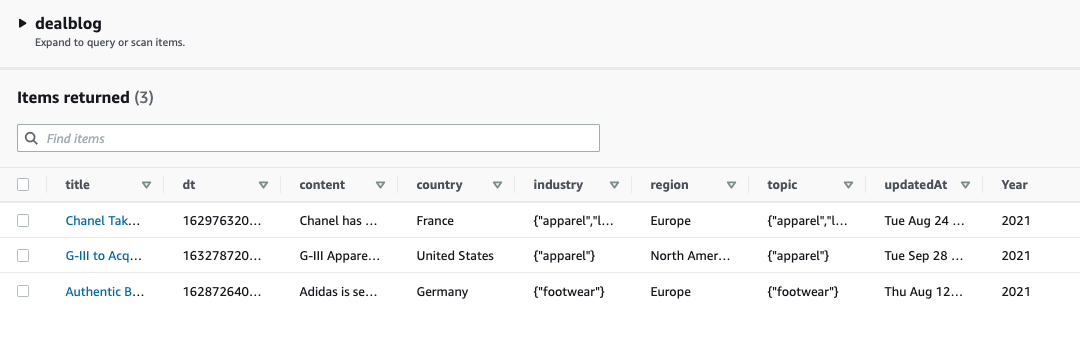
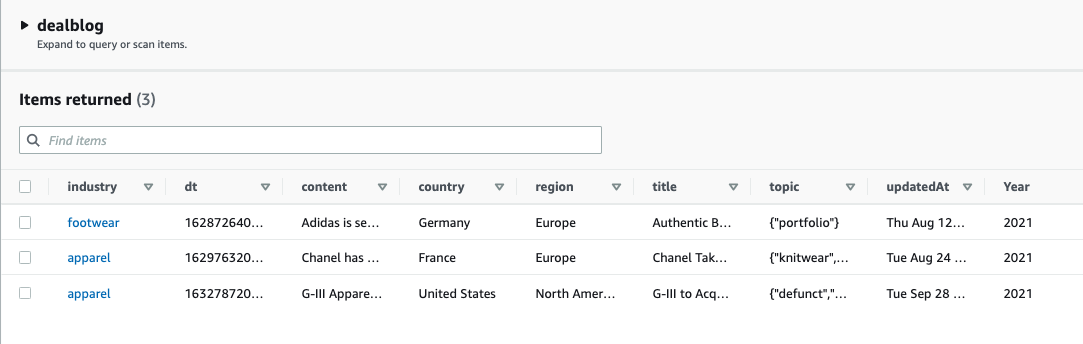
assignment 6

diff --git a/week05_02/week05.js b/week05_02/week05.js
@@ -15,9 +15,9 @@ class BlogEntry {
     this.region = {};
     this.region.S = region;
     this.industry = {};
-    this.industry.SS = industry; 
+    this.industry.S = industry; 
     this.topic = {};
-    this.topic.SS = industry; 
+    this.topic.SS = topic; 
     this.Year = {};
     this.Year.N = new Date(updatedAt).getFullYear().toString();
     this.content = {};
@@ -26,9 +26,9 @@ class BlogEntry {
   }
 }
 
-blogEntries.push(new BlogEntry('G-III to Acquire Sonia Rykiel','September 28 2021','United States', 'North America', ["apparel"],["defunct","portfolio"],'G-III Apparel Group revealed that it has entered into an agreement to purchase Sonia Rykiel, with plans to accelerate the relaunch of the French fashion brand primarily in Europe, for the fall of 2022, with collections across multiple categories. The transaction, which comes less than two years after brothers Eric and Michael Dayan successfully bid to acquire all of the bankrupt brand’s assets via a court-administered process. \(Those assets included the brand’s intellectual property rights \(namely, its various global trademark registrations, and decades of archives and product prototypes\); the commercial leases for its brick-and-mortar outposts in France – from its Saint Germain flagship to a glitzy boutique in Cannes, among others; and its remaining stock of garments and accessories.\)The deal is expected to close by the end of October 2021.'));
-blogEntries.push(new BlogEntry('Chanel Takes Majority Stake in Paima','Auguest 24, 2021', 'France', 'Europe', ["apparel","luxury"],["supply chain","knitwear"],'Chanel has taken a majority stake in Italian knitwear company Paima, a move that falls in line with a larger pattern of luxury giants looking gain greater control over their supply chains by bringing key third-party companies under their own roofs. “This decision has been motivated by converging interests,” Chanel asserted in a statement, noting that while Paima, which has been a supplier for the French fashion brand for 25 years, “has seen its development accelerate in recent years, it seemed appropriate to have a solid partner to help it grow \[further\] and invest.” More than that, Chanel revealed that the investment “provides a more sustainable collaboration framework by continuing an already established relationship.”'));
-blogEntries.push(new BlogEntry('Authentic Brands Group Buys Reebok','Auguest 12, 2021','Germany', 'Europe',["footwear"],["portfolio"],'Adidas is selling its Reebok brand to Authentic Brands Groups for up to 2.1 billion euros \($2.46 billion\), with the German sporting wear group looking to “focus on its core brand after the U.S. fitness label failed to live up to expectations,” per Reuters. Authentic Brand, which filed its preliminary IPO documentation in July, has been on a buying streak in the past few years, with the brand developer buying up an array of fashion and apparel companies, ranging from Juicy Couture and Judith Leiber to Jones New York, Volcom, and Aeropostale.'));
+blogEntries.push(new BlogEntry('G-III to Acquire Sonia Rykiel','September 28 2021','United States', 'North America', "apparel",["defunct","portfolio"],'G-III Apparel Group revealed that it has entered into an agreement to purchase Sonia Rykiel, with plans to accelerate the relaunch of the French fashion brand primarily in Europe, for the fall of 2022, with collections across multiple categories. The transaction, which comes less than two years after brothers Eric and Michael Dayan successfully bid to acquire all of the bankrupt brand’s assets via a court-administered process. \(Those assets included the brand’s intellectual property rights \(namely, its various global trademark registrations, and decades of archives and product prototypes\); the commercial leases for its brick-and-mortar outposts in France – from its Saint Germain flagship to a glitzy boutique in Cannes, among others; and its remaining stock of garments and accessories.\)The deal is expected to close by the end of October 2021.'));
+blogEntries.push(new BlogEntry('Chanel Takes Majority Stake in Paima','Auguest 24, 2021', 'France', 'Europe', "apparel",["supply chain","knitwear","luxury"],'Chanel has taken a majority stake in Italian knitwear company Paima, a move that falls in line with a larger pattern of luxury giants looking gain greater control over their supply chains by bringing key third-party companies under their own roofs. “This decision has been motivated by converging interests,” Chanel asserted in a statement, noting that while Paima, which has been a supplier for the French fashion brand for 25 years, “has seen its development accelerate in recent years, it seemed appropriate to have a solid partner to help it grow \[further\] and invest.” More than that, Chanel revealed that the investment “provides a more sustainable collaboration framework by continuing an already established relationship.”'));
+blogEntries.push(new BlogEntry('Authentic Brands Group Buys Reebok','Auguest 12, 2021','Germany', 'Europe',"footwear",["portfolio"],'Adidas is selling its Reebok brand to Authentic Brands Groups for up to 2.1 billion euros \($2.46 billion\), with the German sporting wear group looking to “focus on its core brand after the U.S. fitness label failed to live up to expectations,” per Reuters. Authentic Brand, which filed its preliminary IPO documentation in July, has been on a buying streak in the past few years, with the brand developer buying up an array of fashion and apparel companies, ranging from Juicy Couture and Judith Leiber to Jones New York, Volcom, and Aeropostale.'));
 
 console.log(blogEntries);
 

diff --git a/week06/week06_nosql.js b/week06/week06_nosql.js
@@ -7,12 +7,16 @@ var dynamodb = new AWS.DynamoDB();
 
 var params = {
     TableName : "dealblog",
-    KeyConditionExpression: "#tt = :titleName", // the query expression
-    ExpressionAttributeNames: { // name substitution, used for reserved words in DynamoDB
-        "#tt" : "title"
-    },
+    KeyConditionExpression: "industry = :industryName and dt between :minDate and :maxDate",// the query expression
+    // KeyConditionExpression: "#tp = :topicName and dt between :minDate and :maxDate", 
+    // ExpressionAttributeNames: {  // name substitution, used for reserved words in DynamoDB
+    //     "#tp" : "topic"
+    // },
+    //Learnings: for reserved names, create a name substitution that starts with `#`. If `topic` is not a reserved name, you don't need a name substitution. 
     ExpressionAttributeValues: { // the query values
-        ":titleName": {S: "chanel"}
+        ":industryName": {S:"apparel"},
+        ":minDate": {N: new Date("July 11, 2021").valueOf().toString()},
+        ":maxDate": {N: new Date("September 28, 2021").valueOf().toString()}
     }
 };
 
@@ -26,3 +30,4 @@ dynamodb.query(params, function(err, data) {
         });
     }
 });
+

diff --git a/week06/README.md b/week06/README.md
@@ -1,41 +1,41 @@
 ### Summary
-Write queries in both PostgreSQL and NoSQL databases. 
+Write queries in both PostgreSQL and NoSQL databases and populate results. 
 ##
 ### Assignment Details
-- Set up Amazon RDS PostgreSQL database, re-install all dependencies in new Cloud9 environment. (`env`,`async`,`got`,`pg`,`fs`,`querystring`,`cheerio`)
-- Scrape and prepare tables in Node.js.
-- Create tables in PostgreSQL, insert data and check if data has been written into the database correctly.  
+- Create a rough wireframe to contextualize the `dealblog` objects, hence decide on best `primary key` and refine attributes and data types as needed. 
+- Write a SQL query in PostgreSQL and NoSQL query in DynamoDB.
+
 
 ##
-### Process
+### PostgreSQL
 ###
-**Step 1**: Scrape more data and create tables for PostgreSQL database. 
+In [week06_sql.js](), I wrote a SQL query that joins `meetings` and `aalocations` tables and only show "Open Discussion" types of meetings on Mondays, and it populates the following results.
 
-- In [week04a_scrape_tables_v2.js](https://github.com/meanmodemoda/msdv-data-structures/blob/master/week04_02/week04a_scrape_tables_v2.js), I created a new table `flatmeetings` that lists out basic individual meeting information. Each meeting is assigned with a `gid` (group id).
-
-    gid | mtgday | mtgstart | mtgend | mtgtype
-    ----|--------|----------| -------|---------  
-    1 | 'Wednesday' | '8:30 PM' | '9:30 PM' | 'C'
-
-Initially, I built the table in nested JSON format. I later decided to flatten it for easy writing into PostgreSQL.
-
-- I made small modifications to [week03.js]() that outputs an `addresses` table. Each address is also assigned with a `gid`. Later, I will use `gid` to join `flatmeetings` with `addresses`.
-
-
-**Step 2**: Set up tables in Amazon PostgresSQL
-
-In [week04b_create_sqltables.js](https://github.com/meanmodemoda/msdv-data-structures/blob/master/week04_02/week04b_create_sqltables.js), I followed the starter code and created two empty PostgreSQL tables `aalocations` and `meetings`.
+```javascript
+var thisQuery = "SELECT m.gid, m.mtgday, m.mtgstart, m.mtgend, m.mtgtype, l.address FROM aalocations l JOIN meetings m ON l.gid = m.gid WHERE m.mtgday = 'Monday' and m.mtgtype = 'OD';";
+```
 ###
-**Step 3**: Insert data into PostgreSQL
+<img src="./PostgreSQL_output.png" width="500" alt="PostgreSQL output">
 
-In [week04c_fill_sqltables.js](https://github.com/meanmodemoda/msdv-data-structures/blob/master/week04_02/week04c_fill_sqltables.js), I followed the starter code and write into PostgreSQL tables `aalocations` and `meetings` using the two JSON files I created in Step 1.
-###
-**Step 4**: Test data input in PostgreSQL
+### NoSQL DynamoDB 
 
-In [week04d_check_work.js](https://github.com/meanmodemoda/msdv-data-structures/blob/master/week04_02/week04d_check_work.js), I followed the starter code and print out the two PostgreSQL tables. They looked about right. 
+To get more clarity on data structure, I created a wireframe of the `dealblog` first. Based on the wireframe, I refined my data structure further as updated in [week05.js]().
 
+In [week06_nosql.js](), I queried blog entries that are related to the `apparel` industry between two specific dates, and it populates the following results.
+
+
+```javascript
+var params = {
+    TableName : "dealblog",
+    KeyConditionExpression: "industry = :industryName and dt between :minDate and :maxDate",
+    ExpressionAttributeValues: {
+        ":industryName": {S:"apparel"},
+        ":minDate": {N: new Date("July 11, 2021").valueOf().toString()},
+        ":maxDate": {N: new Date("September 28, 2021").valueOf().toString()}
+    }
+};
+```
 
 ### Reflections
 ###
-I gained a deeper understanding of `forEach()` and `map()` methods in iterating through nested arrays. 
-I wonder if I can write a nested array into PostgreSQL and if the syntax will be vastly different. 
+I think having a better front-end structure will help shape decisions for what information we need and how to write the data into the databases.

diff --git a/week05_02/README.md b/week05_02/README.md
@@ -11,11 +11,15 @@ Set up a NoSQL database via Amazon DynamoDB. Write data into the database.
 ###
 **Step 1**: Refine schema design
 
-I decided to trim down the database content so I could spend less time on data entry and more time on coding for the front-end. 
+I decided to trim down the database content so I could spend less time on data entry and more time on coding for the front-end. After reviewing DynamoDB documentation on `partition key` and `primary key`, I decided to use `industry` (single string value) as my `partition key` and a numeric time number `dt` converted from the `updatedAt` day value as the `sorting key`.
+
 ###
 <img src="./nosql_diagram_v3.png" width="500" alt="schema design diagram">
+
 ###
-Based on the updated schema, I created a `dealblog` DynamoDB table. I chose to use `title` as my `primary key` and a numeric time number `dt` converted from the `updatedAt` day value as the `sorting key`. A note to myself is even `dt` is a number type, I still need to stringfy it for writing into database.
+
+Based on the updated schema and `primary key` designation, I created a `dealblog` DynamoDB table. A note to myself that for `dt`, even it's a numeric value, I still need to stringify it for writing into database.
+
 ###
 
 ```javascript
@@ -35,5 +39,11 @@ I created an `async` callback function referencing previous assignmentss to writ
 
 ### Reflections
 ###
-Thanks to this exercise that prompted me to reflect on my SQL project - which I should have used a class to create my tables where I can set up proper data types directly. 
+Thanks to this exercise that prompted me to reflect on my SQL AA meeting project - which I should have used a class to create my tables where I can set up proper data types directly. 
+I initially set up `title` as a unique primary key but then I realized it didn't give me the flexiblity of a NoSQL database. A NoSQL database stores data in partitions and by leveraging a `partition key`, I can retrieve multiple items within a partition. If I use `title` as the primary key, I can only retrieve one unique item at a time and it requires DynamoDB to search through the entire database.
+##  
+### References
+- [How do I choose the right primary key for a DynamoDB table?](https://aws.amazon.com/premiumsupport/knowledge-center/primary-key-dynamodb-table/)
+- [Best Practices for Designing and Using Partition Keys Effectively](https://docs.aws.amazon.com/amazondynamodb/latest/developerguide/bp-partition-key-design.html)
+- [Choosing the Right DynamoDB Partition Key](https://aws.amazon.com/blogs/database/choosing-the-right-dynamodb-partition-key/)
 
